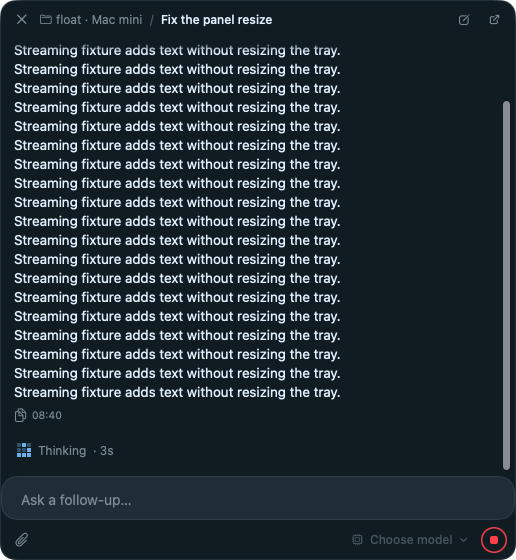
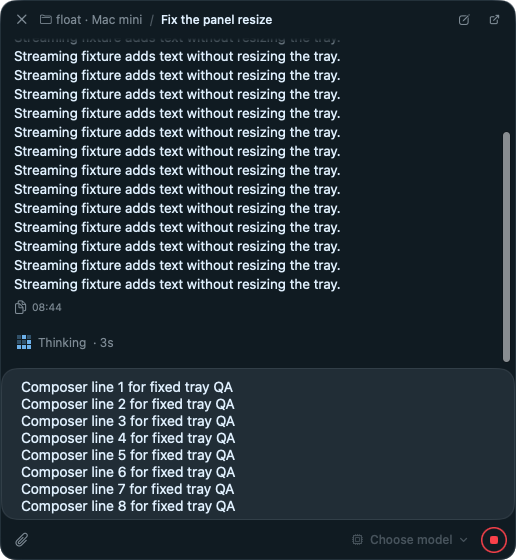
fix(panel): preserve the open chat frame and resize anchor

Changed region(s): [[0.0, 0.0607, 0.6512, 0.9107], [0.9612, 0.6375, 1.0, 0.8804], [0.9612, 0.1821, 0.9922, 0.2429]]

diff --git a/Sources/Float/FloatPanel.swift b/Sources/Float/FloatPanel.swift
@@ -72,7 +72,8 @@ final class FloatPanel: EditingPanel {
     }
 
     private var drag: Drag?
-    var isResizing: Bool { drag != nil }
+    private var applyingResize = false
+    var isResizing: Bool { drag != nil || applyingResize }
 
     override var canBecomeKey: Bool { true }
     override var canBecomeMain: Bool { false }
@@ -122,6 +123,18 @@ final class FloatPanel: EditingPanel {
 }
 
 extension FloatPanel {
+    override func constrainFrameRect(_ frameRect: NSRect, to screen: NSScreen?) -> NSRect {
+        // During a resize AppKit may reposition the window to keep it onscreen.
+        // The drag owns its bottom edge and the side opposite the pointer.
+        applyingResize ? frameRect : super.constrainFrameRect(frameRect, to: screen)
+    }
+
+    private func applyResize(_ frame: NSRect) {
+        applyingResize = true
+        defer { applyingResize = false }
+        setFrame(frame, display: true)
+    }
+
     private func handleResize(_ event: NSEvent, sizing: PanelSizing) -> Bool {
         let visibleHeight = screen?.visibleFrame.height ?? 1_000
         switch event.type {
@@ -135,7 +148,7 @@ extension FloatPanel {
                 sizing.reset()
                 var resetFrame = frame
                 resetFrame.size = CGSize(width: sizing.width, height: sizing.height(on: visibleHeight))
-                setFrame(resetFrame, display: true)
+                applyResize(resetFrame)
             } else {
                 drag = Drag(zone: zone, frame: frame, pointer: convertPoint(toScreen: point))
             }
@@ -155,7 +168,7 @@ extension FloatPanel {
             case .topRight:
                 next.size.width = CGFloat(PanelWidthLimits.clamp(Double(drag.frame.width + dx)))
             }
-            setFrame(next, display: true)
+            applyResize(next)
             return true
         case .leftMouseUp:
             guard drag != nil else { return false }

diff --git a/Sources/Float/main.swift b/Sources/Float/main.swift
@@ -60,7 +60,8 @@ private final class FloatApp: NSObject, NSApplicationDelegate, NSWindowDelegate 
     private func show() {
         let panel = self.panel ?? makePanel()
         let pointer = NSEvent.mouseLocation
-        if let screen = NSScreen.screens.first(where: { $0.frame.contains(pointer) }) ?? NSScreen.main {
+        if !trayVisible || !positioned,
+           let screen = NSScreen.screens.first(where: { $0.frame.contains(pointer) }) ?? NSScreen.main {
             if panel.screen != screen { positioned = false }
             layout(on: screen)
         }
@@ -153,7 +154,7 @@ private final class FloatApp: NSObject, NSApplicationDelegate, NSWindowDelegate 
     }
 
     func windowDidChangeScreen(_ notification: Notification) {
-        guard let screen = panel?.screen else { return }
+        guard !trayVisible, let screen = panel?.screen else { return }
         layout(on: screen)
     }
 
